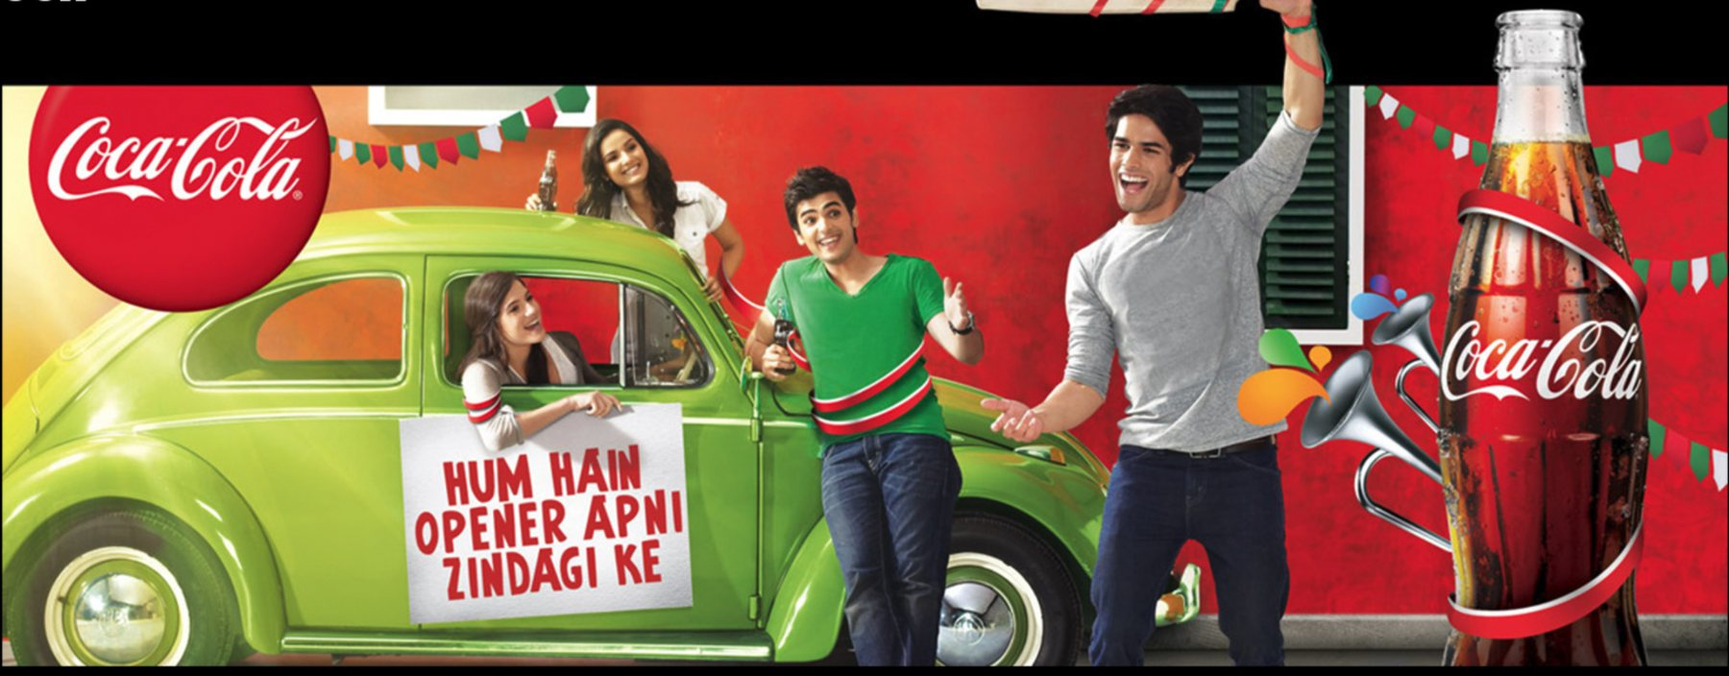
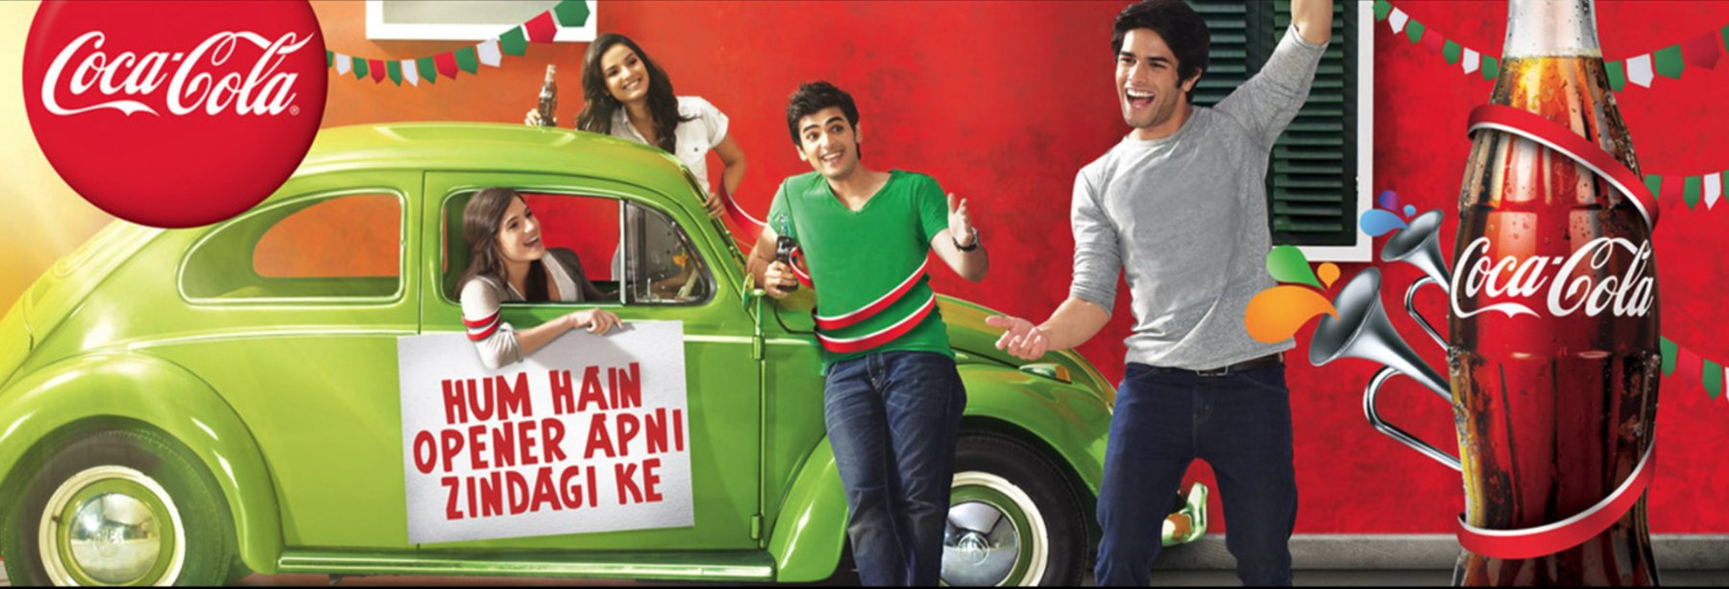
Balance the Campaigns image grids
Mixed-shape rows now use equal-height layouts where each image's width
follows its proportions, and poster-plus-stack blocks size their columns
so both sides end level. The Coca-Cola T20 billboards are re-cropped
without the black band. On phones, four-image rows become an even 2x2.

diff --git a/campaigns/index.html b/campaigns/index.html
@@ -548,6 +548,11 @@
   .side { display: grid; grid-template-columns: minmax(0, .42fr) minmax(0, 1fr); gap: clamp(12px, 1.5vw, 20px); margin-top: clamp(16px, 2vw, 24px); align-items: start; }
   .side .frame { margin: 0; }
   .side .stack { margin-top: 0; }
+  .jrow { display: flex; gap: clamp(10px, 1.2vw, 16px); margin-top: clamp(16px, 2vw, 24px); align-items: flex-start; }
+  .jrow .frame { margin: 0; min-width: 0; }
+  .jrow .frame img, .stack .frame img { height: auto; }
+  .side { align-items: stretch; }
+  .side > .frame img { height: 100%; object-fit: cover; }
   .takeaway { margin-top: clamp(20px, 2.4vw, 32px); border-left: 4px solid var(--accent); padding: 6px 0 6px 20px; max-width: 62ch; }
   .takeaway small { display: block; font-size: 12px; font-weight: 600; letter-spacing: .14em; text-transform: uppercase; color: var(--accent); }
   .takeaway p { margin: 8px 0 0; font-size: clamp(18px, 1.5vw, 22px); line-height: 1.45; font-weight: 600; }
@@ -558,11 +563,16 @@
   @media (max-width: 960px) {
     .proj-meta { grid-template-columns: 1fr 1fr; }
     .grid4 { grid-template-columns: 1fr 1fr; }
-    .side { grid-template-columns: 1fr; }
+    .side { grid-template-columns: 1fr !important; }
+    .side > .frame img { height: auto; }
   }
   @media (max-width: 600px) {
     .posters, .grid3 { grid-template-columns: 1fr 1fr; }
     .twin { grid-template-columns: 1fr; }
+    .jrow--wrap { display: grid; grid-template-columns: 1fr 1fr; }
+    .jrow--wrap .frame { aspect-ratio: 1 / 1; background: #111; }
+    .jrow--wrap .frame img { height: 100%; object-fit: contain; }
+    .jrow .cap { font-size: 10px; padding: 4px 8px; left: 8px; bottom: 8px; max-width: calc(100% - 16px); white-space: nowrap; overflow: hidden; text-overflow: ellipsis; }
   }
 
 </style>
@@ -652,15 +662,7 @@
         <h3 class="reveal"><small>The art direction system</small>Four rules, and a lot of room.</h3>
         <p class="reveal">Anything I could specify tightly, I did, so everything I couldn't specify was free.</p>
         <div class="feats feats--4"><article class="feat reveal"><small>01</small><b>Photographic treatment</b><p>A fixed stack of grain, contrast, edge decay and colour bias, supplied as layered templates.</p></article><article class="feat reveal"><small>02</small><b>Illustrative overlay</b><p>Bold, high-contrast and hand-led. Defined by behaviour, so local artists did the mark-making.</p></article><article class="feat reveal"><small>03</small><b>Typographic command</b><p>BEGIN DESIRE holds the same position in every execution. Surface treatment is free.</p></article><article class="feat reveal"><small>04</small><b>Palette discipline</b><p>MARTINI red anchors every frame. Everything else negotiates around it.</p></article></div>
-        <div class="side">
-          <figure class="frame reveal "><img src="assets/mb-victorious.jpg" alt="Desire Begins Victorious poster with a runner" loading="lazy"><span class="cap">Victorious</span></figure>
-          <div class="stack">
-            <figure class="frame reveal "><img src="assets/mb-banner-martini.jpg" alt="Wide MARTINI banner in red and cream" loading="lazy"></figure>
-            <figure class="frame reveal "><img src="assets/mb-banner-sunset.jpg" alt="Desire Begins Sunset banner with dancers" loading="lazy"></figure>
-            <figure class="frame reveal "><img src="assets/mb-banner-victorious.jpg" alt="Desire Begins Victorious stadium banner" loading="lazy"></figure>
-            <figure class="frame reveal "><img src="assets/mb-banner-cocktail.jpg" alt="Desire Begins Sunset banner with a cocktail" loading="lazy"></figure>
-          </div>
-        </div>
+        <div class="side" style="grid-template-columns:minmax(0,0.6719fr) minmax(0,1fr)"><figure class="frame reveal "><img src="assets/mb-victorious.jpg" alt="Desire Begins Victorious poster with a runner" loading="lazy"><span class="cap">Victorious</span></figure><div class="stack"><figure class="frame reveal "><img src="assets/mb-banner-martini.jpg" alt="Wide MARTINI banner in red and cream" loading="lazy"></figure><figure class="frame reveal "><img src="assets/mb-banner-sunset.jpg" alt="Desire Begins Sunset banner with dancers" loading="lazy"></figure><figure class="frame reveal "><img src="assets/mb-banner-victorious.jpg" alt="Desire Begins Victorious stadium banner" loading="lazy"></figure><figure class="frame reveal "><img src="assets/mb-banner-cocktail.jpg" alt="Desire Begins Sunset banner with a cocktail" loading="lazy"></figure></div></div>
         <div class="sw reveal"><div class="sw-tabs"><button class="sw-tab is-on" aria-pressed="true">Begin Desire</button><button class="sw-tab" aria-pressed="false">Desire Begins Day</button><button class="sw-tab" aria-pressed="false">Desire Begins Go!</button><button class="sw-tab" aria-pressed="false">Desire Begins Again</button></div><div class="sw-stage is-auto" style="--ar:1800 / 1012"><img class="sw-img is-on" src="assets/mb-wall-1.jpg" alt="Begin Desire poster wall with portraits" loading="lazy"><img class="sw-img" src="assets/mb-wall-2.jpg" alt="Desire Begins Day layouts" loading="lazy"><img class="sw-img" src="assets/mb-wall-3.jpg" alt="Desire Begins Go layouts with a cocktail" loading="lazy"><img class="sw-img" src="assets/mb-wall-4.jpg" alt="Desire Begins Again layouts" loading="lazy"><span class="sw-bar" aria-hidden="true"></span></div><div class="sw-notes" aria-live="polite"><p class="sw-note is-on">Portraits, type and the red ball, locked in one grid.</p><p class="sw-note">The overlay system flexes for each moment.</p><p class="sw-note">Cocktail and lifestyle formats share one structure.</p><p class="sw-note">Cream, red and black: the palette never moves.</p></div></div>
       </div>
       <div class="camp">
@@ -693,38 +695,14 @@
       
       <p class="sub reveal">Three Sprite campaigns for Pakistan: a food-led brand platform, a nationwide hunt for street cricket talent, and a thirst campaign built on ice-cold lemon-lime.</p>
       <div class="camp"><h3 class="reveal"><small>Sprite &amp; spice</small>Mirchi Pe Lagao, Sprite Ka Tarka</h3><p class="reveal">Sprite with spicy food, launching the brand platform in Pakistan for the first time. I created the logo stamp that let the campaign own its space, and the campaign ID and visuals were later used in China and Mexico.</p>
-        <div class="side">
-          <figure class="frame reveal "><img src="assets/sp-mirchi-logo.jpg" alt="Mirchi Pe Lagao Sprite Ka Tarka logo stamp with chillies" loading="lazy"><span class="cap">Logo stamp</span></figure>
-          <div class="stack">
-            <figure class="frame reveal "><img src="assets/sp-mirchi-ooh-1.jpg" alt="Billboard: Sprite bottle splashing beside samosas and chutney" loading="lazy"><span class="cap">OOH</span></figure>
-            <figure class="frame reveal "><img src="assets/sp-mirchi-ooh-2.jpg" alt="Billboard: Sprite bottle with spicy grilled chicken" loading="lazy"><span class="cap">OOH</span></figure>
-          </div>
-        </div></div>
+        <div class="side" style="grid-template-columns:minmax(0,0.8640fr) minmax(0,1fr)"><figure class="frame reveal "><img src="assets/sp-mirchi-logo.jpg" alt="Mirchi Pe Lagao Sprite Ka Tarka logo stamp with chillies" loading="lazy"><span class="cap">Logo stamp</span></figure><div class="stack"><figure class="frame reveal "><img src="assets/sp-mirchi-ooh-1.jpg" alt="Billboard: Sprite bottle splashing beside samosas and chutney" loading="lazy"><span class="cap">OOH</span></figure><figure class="frame reveal "><img src="assets/sp-mirchi-ooh-2.jpg" alt="Billboard: Sprite bottle with spicy grilled chicken" loading="lazy"><span class="cap">OOH</span></figure></div></div></div>
       <div class="camp"><h3 class="reveal"><small>Sprite Cricket Next · 2012</small>Team Hosh vs Team Josh</h3><p class="reveal">An activation-led campaign that set cricket greats Moin Khan (Team Hosh, the cool head) and Shoaib Akhtar (Team Josh, the fire) against each other to find Pakistan's best street cricketers for a nationwide tournament. Fans entered by SMS, the tournament came to their gali, and The Coca-Cola Company later used the campaign in the UAE.</p>
         <figure class="frame reveal wide"><img src="assets/sp-cricket-ooh-1.jpg" alt="Billboard: Moin Khan and Shoaib Akhtar face off either side of the Sprite Cricket Next logo" loading="lazy"><span class="cap">Dikha do apna aap!</span></figure>
-        <div class="twin" style="margin-top:16px">
-          <figure class="frame reveal "><img src="assets/sp-cricket-hosh.jpg" alt="Moin's Team Hosh billboard" loading="lazy"><span class="cap">Team Hosh</span></figure>
-          <figure class="frame reveal "><img src="assets/sp-cricket-josh.jpg" alt="Shoaib's Team Josh billboard" loading="lazy"><span class="cap">Team Josh</span></figure>
-        </div>
-        <div class="grid3">
-          <figure class="frame reveal "><img src="assets/sp-cricket-poster.jpg" alt="Poster: Hosh vs Josh, coming to your street" loading="lazy"><span class="cap">Poster</span></figure>
-          <figure class="frame reveal "><img src="assets/sp-cricket-backdrop.jpg" alt="Event backdrop with both captains" loading="lazy"><span class="cap">Event backdrop</span></figure>
-          <figure class="frame reveal "><img src="assets/sp-cricket-layout.jpg" alt="Street tournament ground layout" loading="lazy"><span class="cap">Ground layout</span></figure>
-        </div>
-        <div class="grid3">
-          <figure class="frame reveal "><img src="assets/sp-next-wall.jpg" alt="Giant Sprite Cricket Next mural on a brick building" loading="lazy"><span class="cap">Street teaser</span></figure>
-          <figure class="frame reveal "><img src="assets/sp-wall.jpg" alt="Sprite Cricket stencil on a weathered wall" loading="lazy"><span class="cap">Stencil</span></figure>
-          <figure class="frame reveal "><img src="assets/sp-window.jpg" alt="Broken window with a Sprite Cricket Next sticker" loading="lazy"><span class="cap">Broken window</span></figure>
-        </div></div>
+        <div class="jrow "><figure style="flex:2.9756 1 0%" class="frame reveal "><img src="assets/sp-cricket-hosh.jpg" alt="Moin's Team Hosh billboard" loading="lazy"><span class="cap">Team Hosh</span></figure><figure style="flex:2.9756 1 0%" class="frame reveal "><img src="assets/sp-cricket-josh.jpg" alt="Shoaib's Team Josh billboard" loading="lazy"><span class="cap">Team Josh</span></figure></div>
+        <div class="jrow "><figure style="flex:0.7795 1 0%" class="frame reveal "><img src="assets/sp-cricket-poster.jpg" alt="Poster: Hosh vs Josh, coming to your street" loading="lazy"><span class="cap">Poster</span></figure><figure style="flex:1.9092 1 0%" class="frame reveal "><img src="assets/sp-cricket-backdrop.jpg" alt="Event backdrop with both captains" loading="lazy"><span class="cap">Event backdrop</span></figure><figure style="flex:1.5239 1 0%" class="frame reveal "><img src="assets/sp-cricket-layout.jpg" alt="Street tournament ground layout" loading="lazy"><span class="cap">Ground layout</span></figure></div>
+        <div class="jrow "><figure style="flex:1.5974 1 0%" class="frame reveal "><img src="assets/sp-next-wall.jpg" alt="Giant Sprite Cricket Next mural on a brick building" loading="lazy"><span class="cap">Street teaser</span></figure><figure style="flex:1.5000 1 0%" class="frame reveal "><img src="assets/sp-wall.jpg" alt="Sprite Cricket stencil on a weathered wall" loading="lazy"><span class="cap">Stencil</span></figure><figure style="flex:0.6834 1 0%" class="frame reveal "><img src="assets/sp-window.jpg" alt="Broken window with a Sprite Cricket Next sticker" loading="lazy"><span class="cap">Broken window</span></figure></div></div>
       <div class="camp"><h3 class="reveal"><small>Thirst</small>Tu Hai Pyaas Ka Dushman</h3><p class="reveal">You are thirst's enemy: crisp lemon-lime, ice and splash, across posters and wide-format banners.</p>
-        <div class="side">
-          <figure class="frame reveal "><img src="assets/sp-thirst-poster.jpg" alt="Sprite poster: Tu hai pyaas ka dushman, chilled bottle in ice" loading="lazy"><span class="cap">Poster</span></figure>
-          <div class="stack">
-            <figure class="frame reveal "><img src="assets/sp-thirst-1.jpg" alt="Sprite Pyaas ka dushman banner with lime splash" loading="lazy"><span class="cap">Banner</span></figure>
-            <figure class="frame reveal "><img src="assets/sp-thirst-2.jpg" alt="Sprite Pyaas ka dushman banner with ice" loading="lazy"><span class="cap">Banner</span></figure>
-            <figure class="frame reveal "><img src="assets/sp-lemons.jpg" alt="Illustration: three lemon halves dripping into a Sprite bottle" loading="lazy"><span class="cap">Illustration</span></figure>
-          </div>
-        </div></div>
+        <div class="side" style="grid-template-columns:minmax(0,0.8957fr) minmax(0,1fr)"><figure class="frame reveal "><img src="assets/sp-thirst-poster.jpg" alt="Sprite poster: Tu hai pyaas ka dushman, chilled bottle in ice" loading="lazy"><span class="cap">Poster</span></figure><div class="stack"><figure class="frame reveal "><img src="assets/sp-thirst-1.jpg" alt="Sprite Pyaas ka dushman banner with lime splash" loading="lazy"><span class="cap">Banner</span></figure><figure class="frame reveal "><img src="assets/sp-thirst-2.jpg" alt="Sprite Pyaas ka dushman banner with ice" loading="lazy"><span class="cap">Banner</span></figure><figure class="frame reveal "><img src="assets/sp-lemons.jpg" alt="Illustration: three lemon halves dripping into a Sprite bottle" loading="lazy"><span class="cap">Illustration</span></figure></div></div></div>
     </div>
   </section>
 
@@ -736,40 +714,16 @@
       <p class="sub reveal">Three Fanta campaigns for Pakistan in 2012, built on the brand's animated global crew and its "More Fanta, Less Serious" platform, and made local through games, music and school break time.</p>
       <div class="camp"><h3 class="reveal"><small>Activation</small>Fanta Crazy Chase</h3><p class="reveal">Pakistan's biggest chase: a nationwide game to hunt down Fanta through sets of challenges, each one leading to the next clue. The global Fanta crew brought it to life on bridges, billboards, kiosks and stages.</p>
         <figure class="frame reveal wide"><img src="assets/fa-chase-bridge.jpg" alt="Fanta Crazy Chase characters climbing over a highway bridge billboard" loading="lazy"><span class="cap">Bridge takeover</span></figure>
-        <div class="grid4">
-          <figure class="frame reveal "><img src="assets/fa-chase-logo.jpg" alt="Fanta Crazy Chase logo" loading="lazy"><span class="cap">Logo</span></figure>
-          <figure class="frame reveal "><img src="assets/fa-chase-kiosk.jpg" alt="Crazy Chase kiosk" loading="lazy"><span class="cap">Kiosk</span></figure>
-          <figure class="frame reveal "><img src="assets/fa-chase-tower.jpg" alt="Character climbing a roadside tower" loading="lazy"><span class="cap">Tower</span></figure>
-          <figure class="frame reveal "><img src="assets/fa-chase-stage.jpg" alt="Crazy Chase stage setup" loading="lazy"><span class="cap">Stage</span></figure>
-        </div>
-        <div class="twin" style="margin-top:16px">
-          <figure class="frame reveal "><img src="assets/fa-chase-city.jpg" alt="Crazy Chase billboards in the city" loading="lazy"><span class="cap">City OOH</span></figure>
-          <figure class="frame reveal "><img src="assets/fa-chase-coupon.jpg" alt="Crazy Chase winner coupon: collect all 4" loading="lazy"><span class="cap">Winner coupon</span></figure>
-        </div></div>
+        <div class="jrow jrow--wrap"><figure style="flex:1.0023 1 0%" class="frame reveal "><img src="assets/fa-chase-logo.jpg" alt="Fanta Crazy Chase logo" loading="lazy"><span class="cap">Logo</span></figure><figure style="flex:0.8886 1 0%" class="frame reveal "><img src="assets/fa-chase-kiosk.jpg" alt="Crazy Chase kiosk" loading="lazy"><span class="cap">Kiosk</span></figure><figure style="flex:0.5545 1 0%" class="frame reveal "><img src="assets/fa-chase-tower.jpg" alt="Character climbing a roadside tower" loading="lazy"><span class="cap">Tower</span></figure><figure style="flex:1.8803 1 0%" class="frame reveal "><img src="assets/fa-chase-stage.jpg" alt="Crazy Chase stage setup" loading="lazy"><span class="cap">Stage</span></figure></div>
+        <div class="jrow "><figure style="flex:1.8892 1 0%" class="frame reveal "><img src="assets/fa-chase-city.jpg" alt="Crazy Chase billboards in the city" loading="lazy"><span class="cap">City OOH</span></figure><figure style="flex:2.6218 1 0%" class="frame reveal "><img src="assets/fa-chase-coupon.jpg" alt="Crazy Chase winner coupon: collect all 4" loading="lazy"><span class="cap">Winner coupon</span></figure></div></div>
       <div class="camp"><h3 class="reveal"><small>Music activation</small>Fanta Rocks, with Noori</h3><p class="reveal">A music activation for tweens with Lahore rock band Noori: "Rock your school with Noori." The band steps into the animated Fanta world, kept firmly inside the brand guidelines.</p>
-        <figure class="frame reveal wide"><img src="assets/fa-rocks-ooh-2.jpg" alt="Noori riding with the animated Fanta crew on a scooter" loading="lazy"><span class="cap">Fanta Rocks</span></figure>
-        <div class="grid4">
-          <figure class="frame reveal "><img src="assets/fa-rocks-poster.jpg" alt="Poster: Rock your school with Noori" loading="lazy"><span class="cap">Poster</span></figure>
-          <figure class="frame reveal "><img src="assets/fa-rocks-streamer-1.jpg" alt="Streamer: Fanta rocked my world" loading="lazy"><span class="cap">Streamer</span></figure>
-          <figure class="frame reveal "><img src="assets/fa-rocks-streamer-2.jpg" alt="Streamer: Fanta rocked my world, with guitar" loading="lazy"><span class="cap">Streamer</span></figure>
-          <figure class="frame reveal "><img src="assets/fa-rocks-ooh-1.jpg" alt="Billboard: Rock your school with Noori" loading="lazy"><span class="cap">OOH</span></figure>
-        </div></div>
+        <div class="jrow jrow--wrap"><figure style="flex:1.5940 1 0%" class="frame reveal "><img src="assets/fa-rocks-ooh-2.jpg" alt="Noori riding with the animated Fanta crew on a scooter" loading="lazy"><span class="cap">Fanta Rocks</span></figure><figure style="flex:0.7015 1 0%" class="frame reveal "><img src="assets/fa-rocks-poster.jpg" alt="Poster: Rock your school with Noori" loading="lazy"><span class="cap">Poster</span></figure><figure style="flex:0.3991 1 0%" class="frame reveal "><img src="assets/fa-rocks-streamer-1.jpg" alt="Streamer: Fanta rocked my world" loading="lazy"><span class="cap">Streamer</span></figure><figure style="flex:0.3991 1 0%" class="frame reveal "><img src="assets/fa-rocks-streamer-2.jpg" alt="Streamer: Fanta rocked my world, with guitar" loading="lazy"><span class="cap">Streamer</span></figure></div>
+        <figure class="frame reveal wide"><img src="assets/fa-rocks-ooh-1.jpg" alt="Billboard: Rock your school with Noori" loading="lazy"><span class="cap">OOH</span></figure></div>
       <div class="camp"><h3 class="reveal"><small>Fanta Great Taste · 2012</small>De Breaks Ke Mazay</h3><p class="reveal">Visuals built on Fanta’s snacking credentials and owning break time at school, localising the global Fanta animation so it felt made for Pakistan.</p>
-        <div class="twin">
-          <figure class="frame reveal "><img src="assets/fa-taste-ooh-1.jpg" alt="Billboard: oversized sunglasses framing the Fanta crew" loading="lazy"><span class="cap">OOH</span></figure>
-          <figure class="frame reveal "><img src="assets/fa-taste-ooh-2.jpg" alt="Billboard: orange glasses and a wide smile" loading="lazy"><span class="cap">OOH</span></figure>
-        </div>
-        <div class="grid3">
-          <figure class="frame reveal "><img src="assets/fa-taste-ambient-1.jpg" alt="Ambient design: a rickshaw wrapped as a Fanta bottle" loading="lazy"><span class="cap">Ambient</span></figure>
-          <figure class="frame reveal "><img src="assets/fa-taste-ambient-2.jpg" alt="Ambient design: a street lamp and bench as a Fanta bottle" loading="lazy"><span class="cap">Ambient</span></figure>
-          <figure class="frame reveal "><img src="assets/fa-taste-poster.jpg" alt="Poster: De breaks ke mazay, the crew sharing samosas" loading="lazy"><span class="cap">Poster</span></figure>
-        </div>
+        <div class="jrow "><figure style="flex:1.6126 1 0%" class="frame reveal "><img src="assets/fa-taste-ooh-1.jpg" alt="Billboard: oversized sunglasses framing the Fanta crew" loading="lazy"><span class="cap">OOH</span></figure><figure style="flex:1.6126 1 0%" class="frame reveal "><img src="assets/fa-taste-ooh-2.jpg" alt="Billboard: orange glasses and a wide smile" loading="lazy"><span class="cap">OOH</span></figure></div>
+        <div class="jrow "><figure style="flex:1.5867 1 0%" class="frame reveal "><img src="assets/fa-taste-ambient-1.jpg" alt="Ambient design: a rickshaw wrapped as a Fanta bottle" loading="lazy"><span class="cap">Ambient</span></figure><figure style="flex:1.5988 1 0%" class="frame reveal "><img src="assets/fa-taste-ambient-2.jpg" alt="Ambient design: a street lamp and bench as a Fanta bottle" loading="lazy"><span class="cap">Ambient</span></figure><figure style="flex:0.6863 1 0%" class="frame reveal "><img src="assets/fa-taste-poster.jpg" alt="Poster: De breaks ke mazay, the crew sharing samosas" loading="lazy"><span class="cap">Poster</span></figure></div>
         <p class="sub-h reveal">Localised from Fanta's 2012 global outdoor guidelines</p>
-        <div class="grid3">
-          <figure class="frame reveal "><img src="assets/fa-guide-taste.jpg" alt="Guideline page: The taste you can’t resist" loading="lazy"><span class="cap">Global guideline</span></figure>
-          <figure class="frame reveal "><img src="assets/fa-guide-hello.jpg" alt="Guideline page: Hello delicious" loading="lazy"><span class="cap">Global guideline</span></figure>
-          <figure class="frame reveal "><img src="assets/fa-guide-avoid.jpg" alt="Guideline page: things to avoid" loading="lazy"><span class="cap">Global guideline</span></figure>
-        </div></div>
+        <div class="jrow "><figure style="flex:1.5451 1 0%" class="frame reveal "><img src="assets/fa-guide-taste.jpg" alt="Guideline page: The taste you can’t resist" loading="lazy"><span class="cap">Global guideline</span></figure><figure style="flex:1.5455 1 0%" class="frame reveal "><img src="assets/fa-guide-hello.jpg" alt="Guideline page: Hello delicious" loading="lazy"><span class="cap">Global guideline</span></figure><figure style="flex:1.5451 1 0%" class="frame reveal "><img src="assets/fa-guide-avoid.jpg" alt="Guideline page: things to avoid" loading="lazy"><span class="cap">Global guideline</span></figure></div></div>
     </div>
   </section>
 
@@ -779,20 +733,11 @@
       <h2 id="coca-cola-h" class="display h2 reveal">Cricket fever <span style="color:var(--accent)">and Coke Studio.</span></h2>
       
       <div class="camp"><h3 class="reveal"><small>T20 cricket</small>Hum Hain Opener Apni Zindagi Ke</h3><p class="reveal">We are the openers of our own lives. Young fans with bats, horns and green-and-white bunting, cheering the T20 season in Coca-Cola red.</p>
-        <div class="side">
-          <figure class="frame reveal "><img src="assets/cc-t20-poster.jpg" alt="Poster: fans holding a Hum hain opener apni zindagi ke sign" loading="lazy"><span class="cap">Poster</span></figure>
-          <div class="stack">
-            <figure class="frame reveal "><img src="assets/cc-t20-ooh-1.jpg" alt="Billboard: friends celebrating around a green car" loading="lazy"><span class="cap">OOH</span></figure>
-            <figure class="frame reveal "><img src="assets/cc-t20-ooh-2.jpg" alt="Billboard: four fans spelling Hum hain opener on their shirts" loading="lazy"><span class="cap">OOH</span></figure>
-          </div>
-        </div></div>
+        <div class="side" style="grid-template-columns:minmax(0,0.5223fr) minmax(0,1fr)"><figure class="frame reveal "><img src="assets/cc-t20-poster.jpg" alt="Poster: fans holding a Hum hain opener apni zindagi ke sign" loading="lazy"><span class="cap">Poster</span></figure><div class="stack"><figure class="frame reveal "><img src="assets/cc-t20-ooh-1.jpg" alt="Billboard: friends celebrating around a green car" loading="lazy"><span class="cap">OOH</span></figure><figure class="frame reveal "><img src="assets/cc-t20-ooh-2.jpg" alt="Billboard: four fans spelling Hum hain opener on their shirts" loading="lazy"><span class="cap">OOH</span></figure></div></div></div>
       <div class="camp"><h3 class="reveal"><small>Coke Studio · Season 5 · 2012</small>A mandala for a music universe</h3><p class="reveal">Coke Studio is Coca-Cola Pakistan’s fusion music platform, pairing traditional sound with contemporary. Season 5 ran from 13 May to 8 July 2012, produced by Rohail and Umber Hyatt. I built the outdoor identity on the mandala, a spiritual symbol in Hinduism and Buddhism that represents the universe.</p>
         <div class="stats stats--3"><div class="stat reveal"><b data-to="5" data-pre="" data-suf="">5</b><span>Episodes</span></div><div class="stat reveal"><b data-to="25" data-pre="" data-suf="">25</b><span>Songs</span></div><div class="stat reveal"><b class="txt">May–July</b><span>On air, 2012</span></div></div>
         <div class="sw reveal"><div class="sw-tabs"><button class="sw-tab is-on" aria-pressed="true">Charkha Nolakha</button><button class="sw-tab" aria-pressed="false">Kandyaari Dhol Geet</button><button class="sw-tab" aria-pressed="false">Koi Labda</button></div><div class="sw-stage is-auto" style="--ar:1736 / 600"><img class="sw-img is-on" src="assets/cc-studio-ooh-3.jpg" alt="Coke Studio billboard: Charkha Nolakha" loading="lazy"><img class="sw-img" src="assets/cc-studio-ooh-1.jpg" alt="Coke Studio billboard: Kandyaari Dhol Geet" loading="lazy"><img class="sw-img" src="assets/cc-studio-ooh-2.jpg" alt="Coke Studio billboard: Koi Labda" loading="lazy"><span class="sw-bar" aria-hidden="true"></span></div><div class="sw-notes" aria-live="polite"><p class="sw-note is-on">Episode 1 · from 13 May.</p><p class="sw-note">Episode 4 · from 24 June.</p><p class="sw-note">Episode 5 · from 8 July.</p></div></div>
-        <div class="twin">
-          <figure class="frame reveal "><img src="assets/cc-studio-invite.jpg" alt="Coke Studio Season 5 invitation with a vinyl record" loading="lazy"><span class="cap">Invitation</span></figure>
-          <figure class="frame reveal "><img src="assets/cc-studio-folder.jpg" alt="Coke Studio Season 5 folder" loading="lazy"><span class="cap">Folder</span></figure>
-        </div></div>
+        <div class="jrow "><figure style="flex:1.0000 1 0%" class="frame reveal "><img src="assets/cc-studio-invite.jpg" alt="Coke Studio Season 5 invitation with a vinyl record" loading="lazy"><span class="cap">Invitation</span></figure><figure style="flex:1.0000 1 0%" class="frame reveal "><img src="assets/cc-studio-folder.jpg" alt="Coke Studio Season 5 folder" loading="lazy"><span class="cap">Folder</span></figure></div></div>
     </div>
   </section>
 
